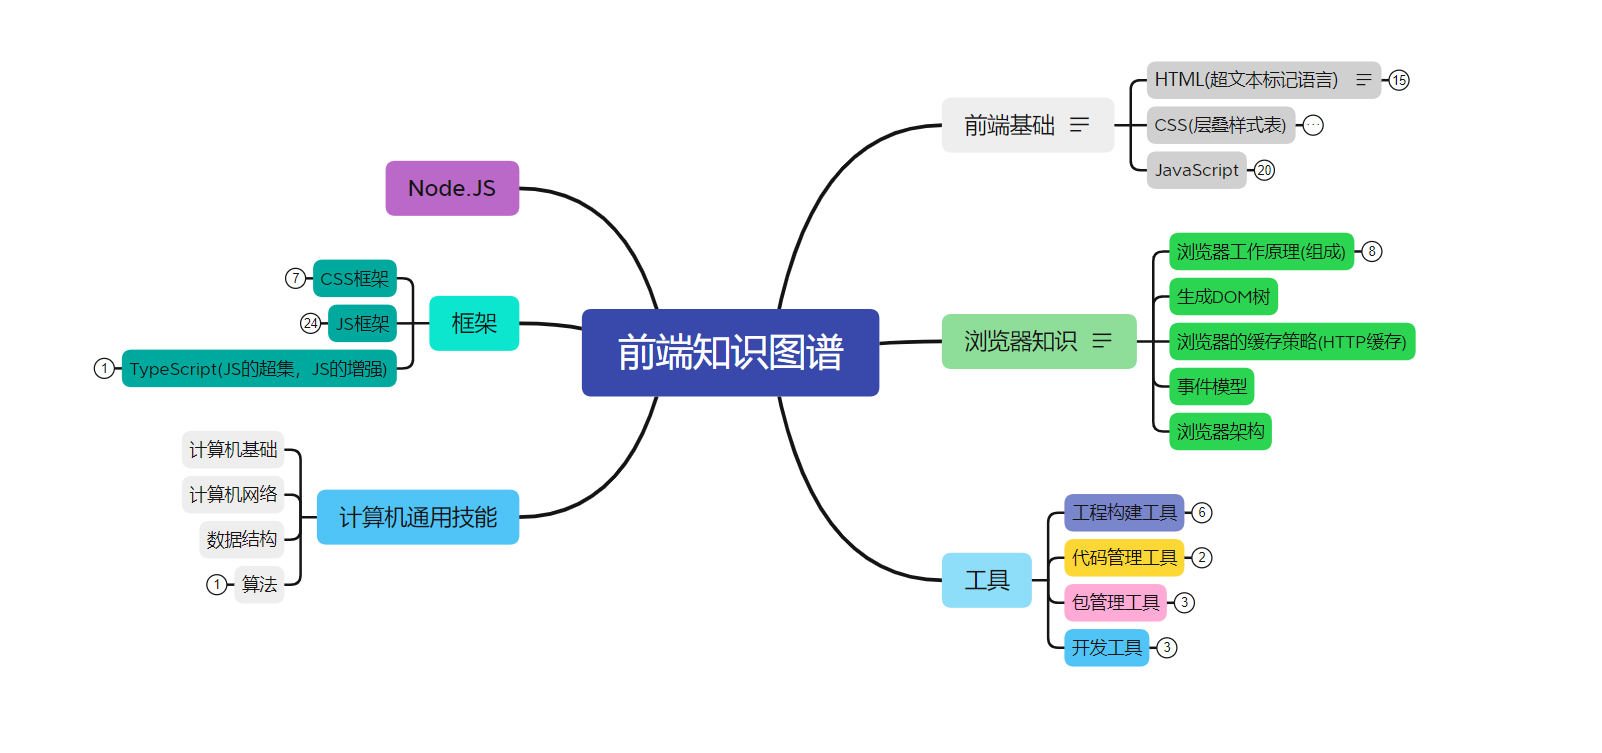
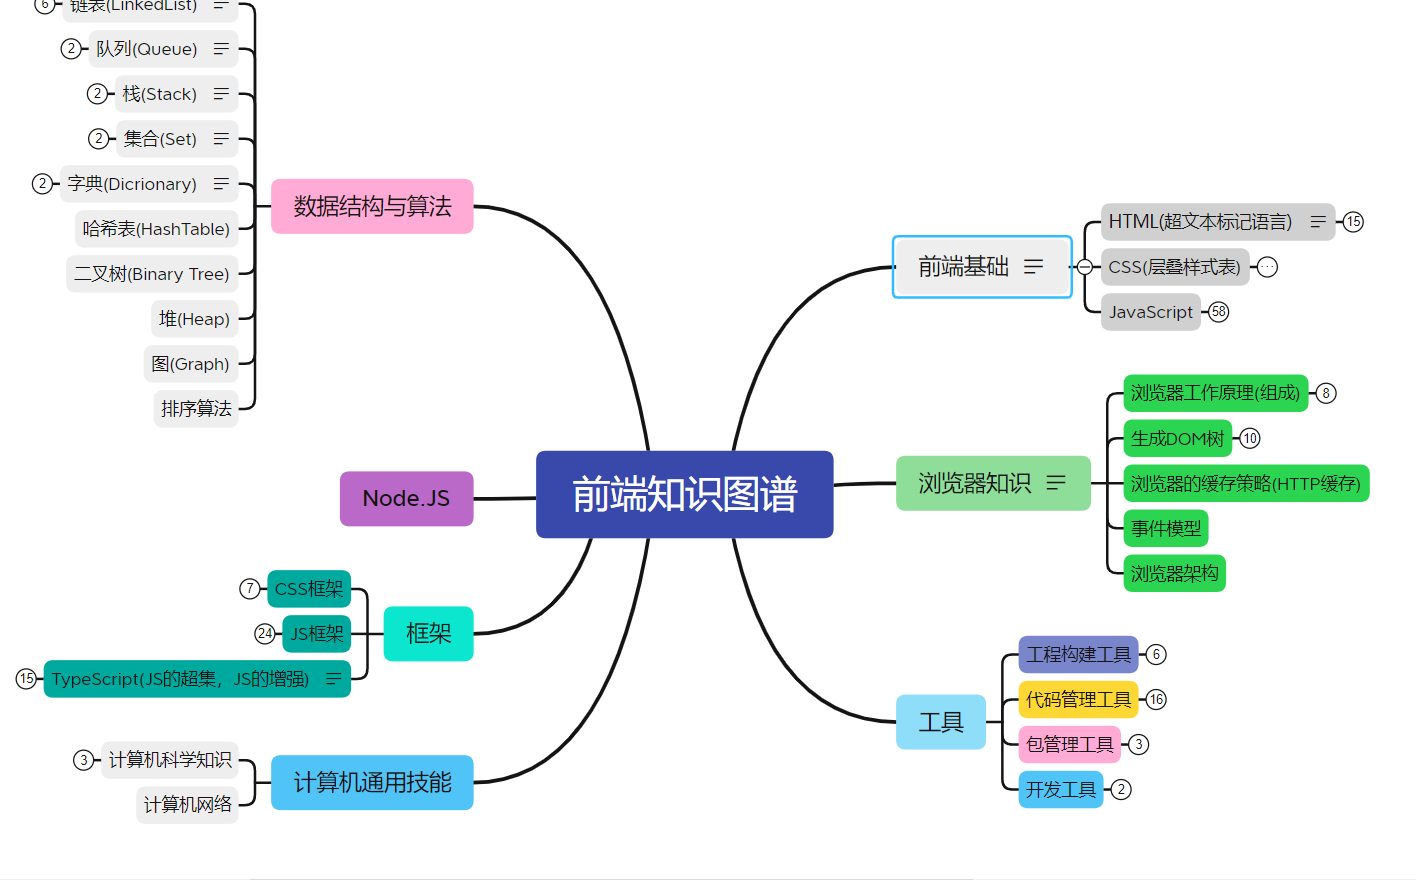
modify

diff --git a/source/All/algorithm-ts/Dictionnary/knowledge.md b/source/All/algorithm-ts/Dictionnary/knowledge.md
@@ -1,0 +1,23 @@
+---
+title: 认识字典
+date: 2022-07-06 17:23:24
+toc: true
+---
+
+**字典有什么特点呢？**
+>* 字典的主要特点是一一对应的关系
+>* 另外字典中的Key是不可以重复的，而value可以重复，并且字典中的key是无序的
+
+比如保存一个人的信息，在合适的情况下取出这些信息
+使用数组的方法：[18, 'abc', 1.88];可以通过下标值取出信息
+使用字典的方式：{"age": 18, "name": "code", "height": '1.88}.可以通过key取出value
+
+**字典和映射的关系**
+有些编程语言中称这种映射关系为字典，因为它确实和生活中的字典比较相似。(比如Swift中的Dictionary,Python中的dict)
+有些编程语言中称这种映射关系为Map,注意Map在这里不要翻译成地图，而是翻译成映射。(比如java中就有HashMap&TreeMap等)
+
+**字典和数组**
+字典和数组对比的话，字典可以非常方便的通过key来搜索对应的value,key可以包含特殊含义，也更容易被人们记住
+
+**字典和对象**
+很多编程语言(比如java)中对字典和对象区分比较明显，通常是一种在编译期就确定下来的结构，不可以动态的添加或者删除属性。而字典通常会使用类似哈希表的数据结构去实现一种可以动态的添加数据的结构。但是在JavaScript中，似乎对象本身就是一种字典，所有在早期的javascript中，没有字典这种数据类型，因为你完全可以使用对象去替代。

diff --git a/source/All/algorithm-ts/Set/knowledge.md b/source/All/algorithm-ts/Set/knowledge.md
@@ -1,0 +1,28 @@
+---
+title: 认识集合
+date: 2022-07-06 17:21:24
+toc: true
+---
+
+### 集合结构 
+几乎每种编程语言中,都有集合结构
+集合比较常见的实现方式是哈希表(后续会学习),我们这里来实现一个封装的集合类
+**集合通常由一组无序的,不能重复的元素构成**
+和数学中的集合名词比较相似,但是数学中的集合范围更大一些,也允许集合中的元素重复.在计算机中,集合通常表示的结构中元素是不允许重复的
+
+**特殊的数组**
+* 特殊之处在于里面的元素没有顺序,也不能重复
+* 没有顺序意味着不能通过下标值进行访问,不能重复意味着相同的对象在集合中只会存在一份
+
+**学习集合还是和之前一样,封装一个集合类**
+2011年6月份发布的ES5中已经包含类Array类
+2015年6月份发布的ES6中包含了Set类,所以其实我们可以不封装,直接使用它.
+但是这里,为了明确集合内部的实现机制,我们这里还是自己来封装一下这个Set类
+
+### 封装集合类
+```js
+function Set() {
+    // 属性
+    this.items = {};
+}
+```

diff --git a/source/All/algorithm-ts/Queue/knowledge.md b/source/All/algorithm-ts/Queue/knowledge.md
@@ -8,3 +8,13 @@ toc: true
 队列通常具有头尾指针(左闭右开区间),头指针指向第一个元素，尾指针指向最后一个元素的下一位。
 队列支持(从队尾)入队(enqueue)、(从队首)出队(dequeue)操作.
 循环队列可以通过取模操作更充分的利用空间。
+
+队列是一种特殊的线性表，特殊之处在于它只允许在表的前端(front)进行删除操作，而在表的后端(rear)进行插入操作,是一种操作受限制的线性表。进行插入操作的端称为队尾，进行删除操作的端称为队首。
+
+类似于我们日常生活中排队买票，我们购票的时候是要排在队尾的——入队操作，当到我们
+买票的时候我们已经在队首了，买完票离开就是一个出队的操作。总结来说，队列就是一个
+先进先出的线性表。
+
+### 队列的典型应用场景
+>1、CPU的超线程技术
+>2、线程池的任务队列

diff --git a/source/All/algorithm-ts/Dictionnary/index.md b/source/All/algorithm-ts/Dictionnary/index.md
@@ -5,6 +5,7 @@ toc: true
 ---
 
 ## 认识字典
+>[认识字典](/All/algorithm-ts/Dictionnary/knowledge "认识字典")
 
 ## 字典类
 >[Dictionnary](/All/algorithm-ts/Dictionnary/DictionnaryClass "字典类")

diff --git a/source/All/algorithm-ts/Set/index.md b/source/All/algorithm-ts/Set/index.md
@@ -5,6 +5,7 @@ toc: true
 ---
 
 ## 认识集合
+>[认识集合](/All/algorithm-ts/Set/knowledge "认识集合")
 
 ## 集合类
 >[Set](/All/algorithm-ts/Set/SetClass "集合类")
